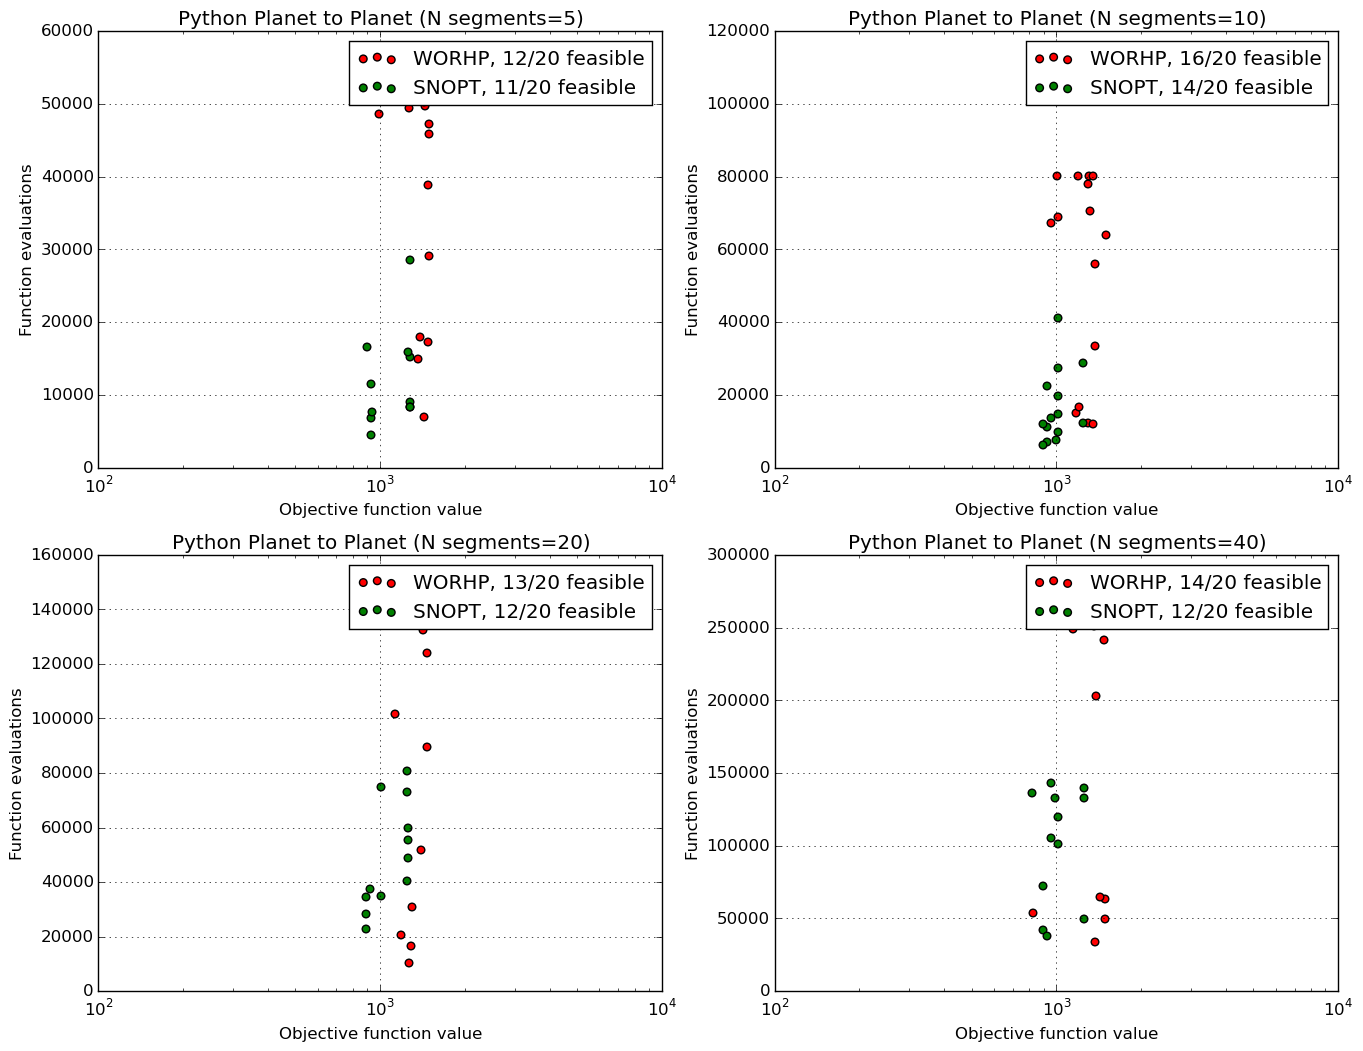
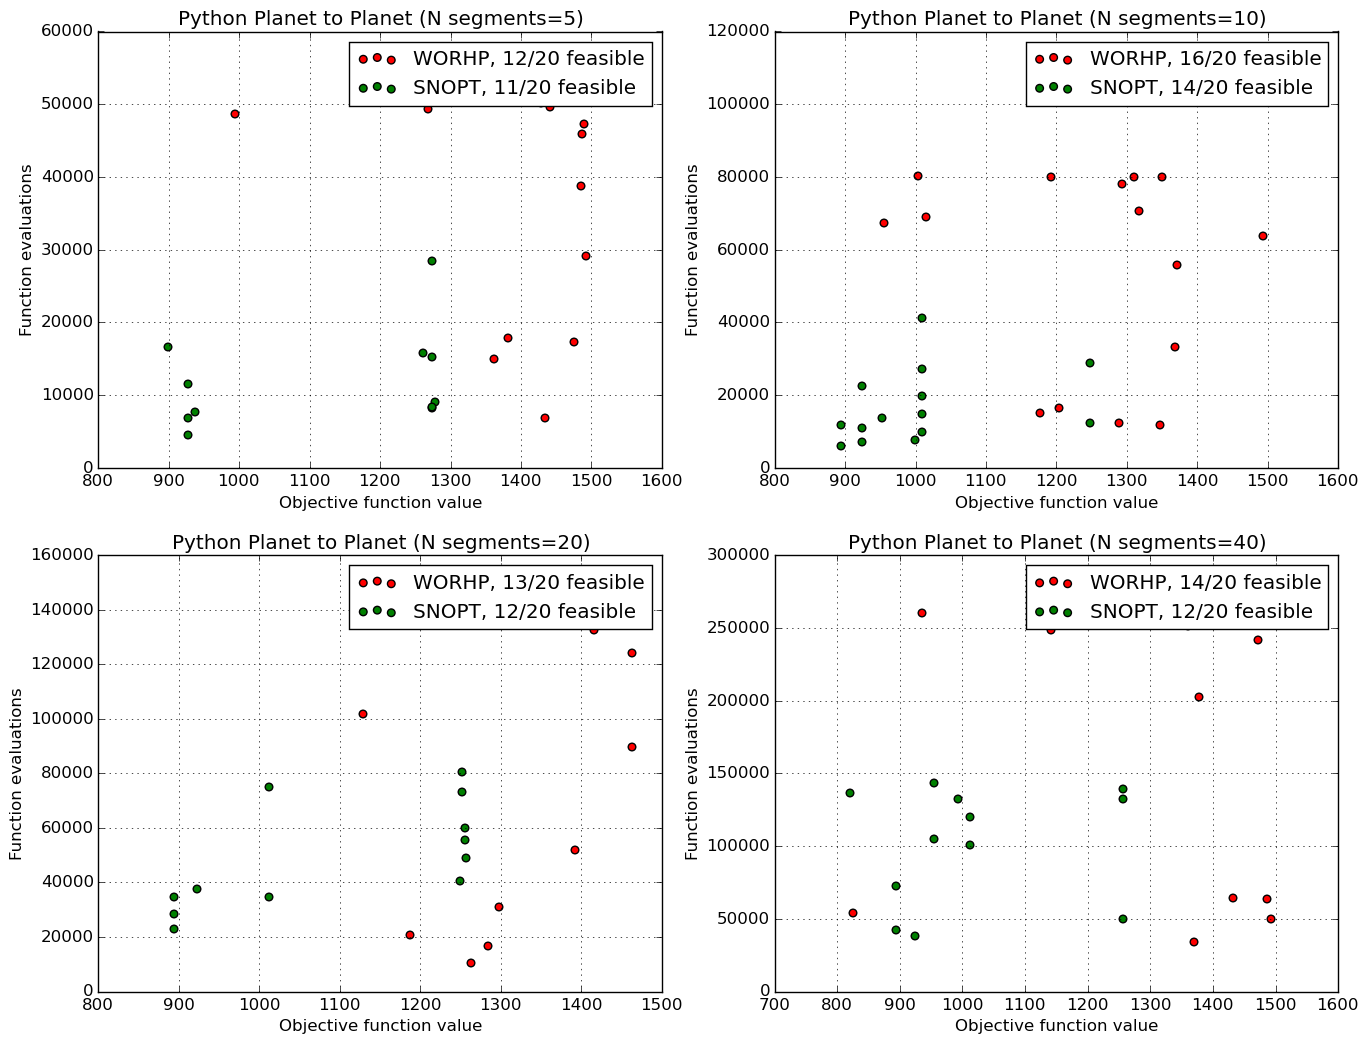
Updated images on NLP tutorial

diff --git a/doc/sphinx/examples/local_optimization.rst b/doc/sphinx/examples/local_optimization.rst
@@ -4,9 +4,9 @@
 Third-party Non-linear optimizers in PyGMO
 ==========================================
 
-Besides a variety of available metaheuristics and global optimization algorithms, PaGMO interfaces several popular local optimizers (full list available on page :ref:`algorithms`).
-Local optimization algorithms are interfaced such that they are compatible with all of other PyGMO features, such as Python interface, island model or algorithm evaluation metrics.
-In this example we will present several features and usecases of nonlinear local optimizers available in PyGMO.
+Besides a variety of available metaheuristics and global optimization algorithms, PaGMO interfaces to several popular local optimizers (full list available on page :ref:`algorithms`).
+Local optimization algorithms are interfaced such that they are compatible with all of other PyGMO features, such as island model.
+In this example we will present several features and use cases of nonlinear local optimizers available in PyGMO.
 
 .. note::
  Almost all of the local optimizers (with an exception of :class:`PyGMO.algorithm.cs` available in PaGMO are interfaces to third-party dependencies.
@@ -73,7 +73,7 @@ License file ``worhp.lic`` can either reside in the current working directory or
 Usage
 -----
 
-Usecase of :class:`PyGMO.algorithm.worhp` is the same as that of the SNOPT as show previously.
+Use case of :class:`PyGMO.algorithm.worhp` is the same as that of the SNOPT as show previously.
 Additionally to three key parameters exposed in the constructor, it is also possible to set some WORHP parameters through the setter.
 
 .. note::
@@ -82,7 +82,7 @@ Additionally to three key parameters exposed in the constructor, it is also poss
  **All parameters set by a setter method, as well as the parameters in the constructor (also the defaults!) are oveloading the values from the configuration file ``param.xml``.**
  List of setter-exposed WORHP parameters is available at: https://github.com/esa/pagmo/blob/master/src/algorithm/worhp_cpp_wrapper/set_get_params.cpp
 
-Script below shows a usecase of WORHP as local optimizer in PaGMO:
+Script below shows a use case of WORHP as local optimizer in PaGMO:
 
 .. code-block:: python
 
@@ -120,7 +120,6 @@ First, we will define functions used for running and experiment and plotting the
 
     def plot(l, title, ax):
         a1, a2 = zip(*l)
-        ax.set_xscale('log')
 
         d = filter(lambda x: x[2], a1)
         if d:
@@ -154,7 +153,8 @@ For each comparison we start with the same initial conditions.
         tmp.append(run(seed, algorithm.snopt(major_iter=1000, feas_tol=1e-8, opt_tol=1e-8), prob))
         l.append(tmp)
         sys.stdout.write("{}/{} ".format(i, N))
-        
+    
+    ax.set_xscale('log')
     plot(l, "Luksan Vlcek 1 (D=10)", ax=plt.gca())
     plt.show()
 
